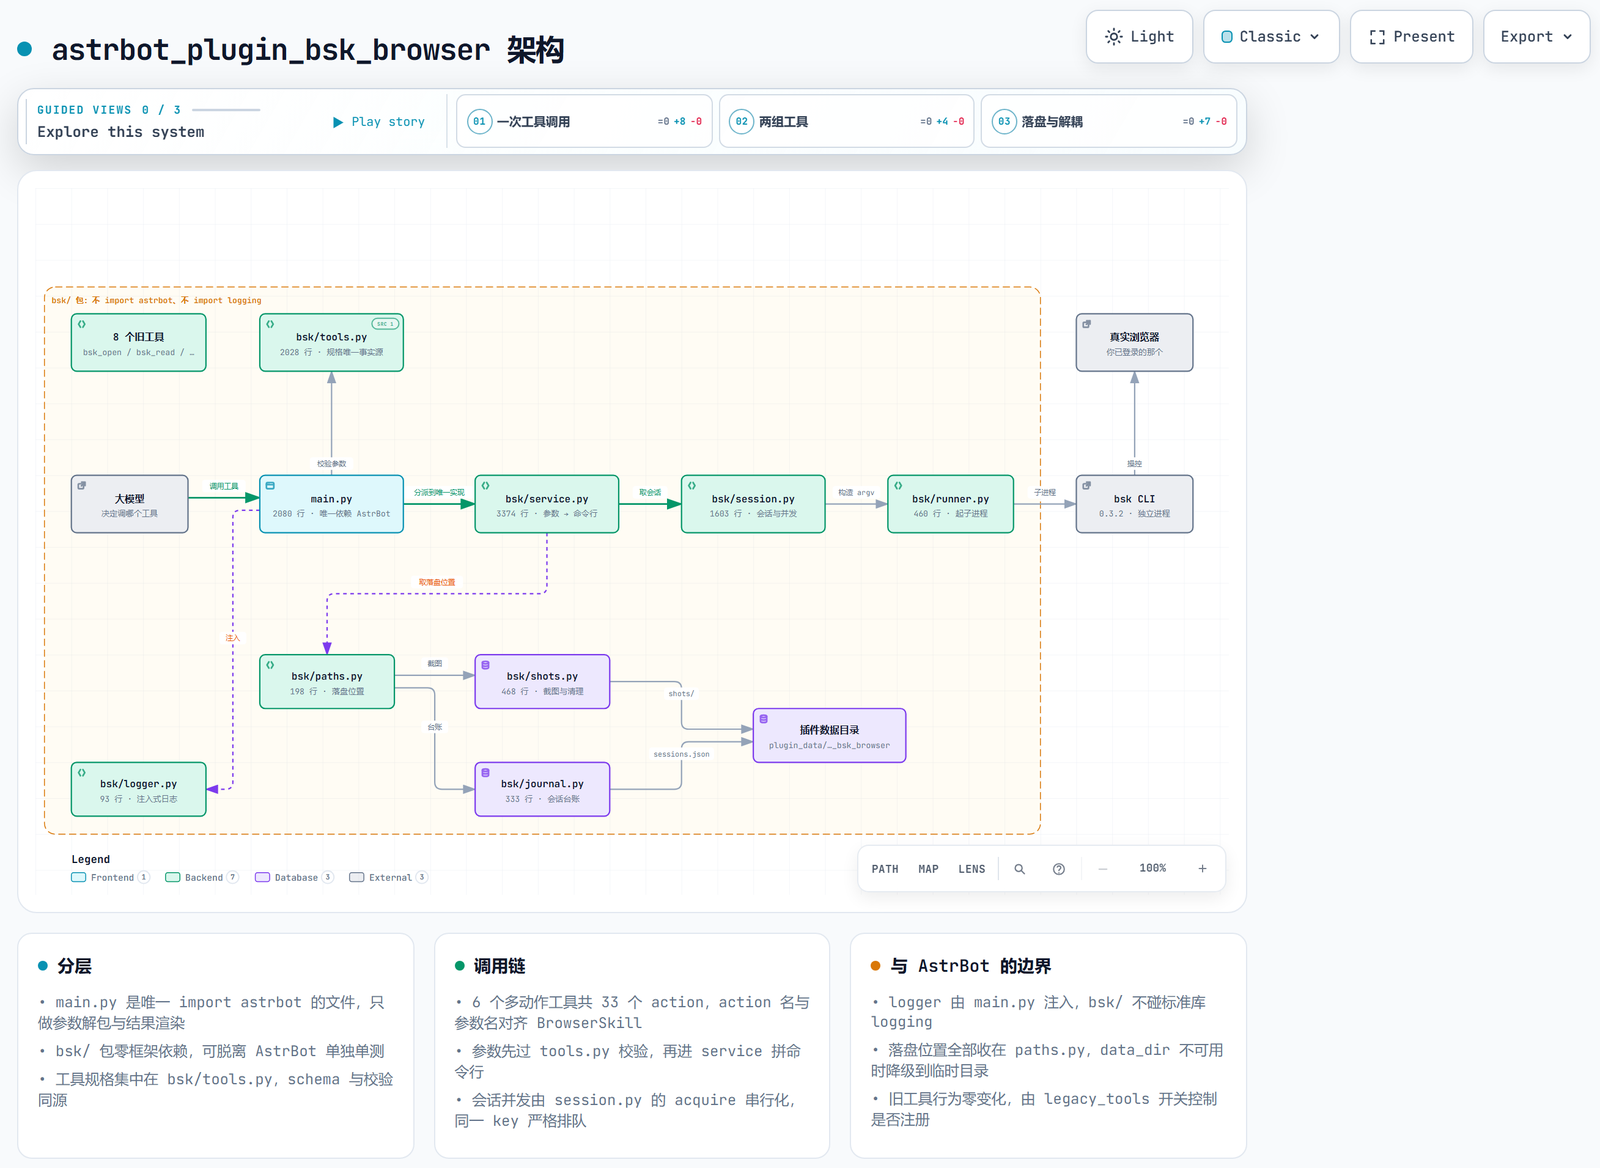
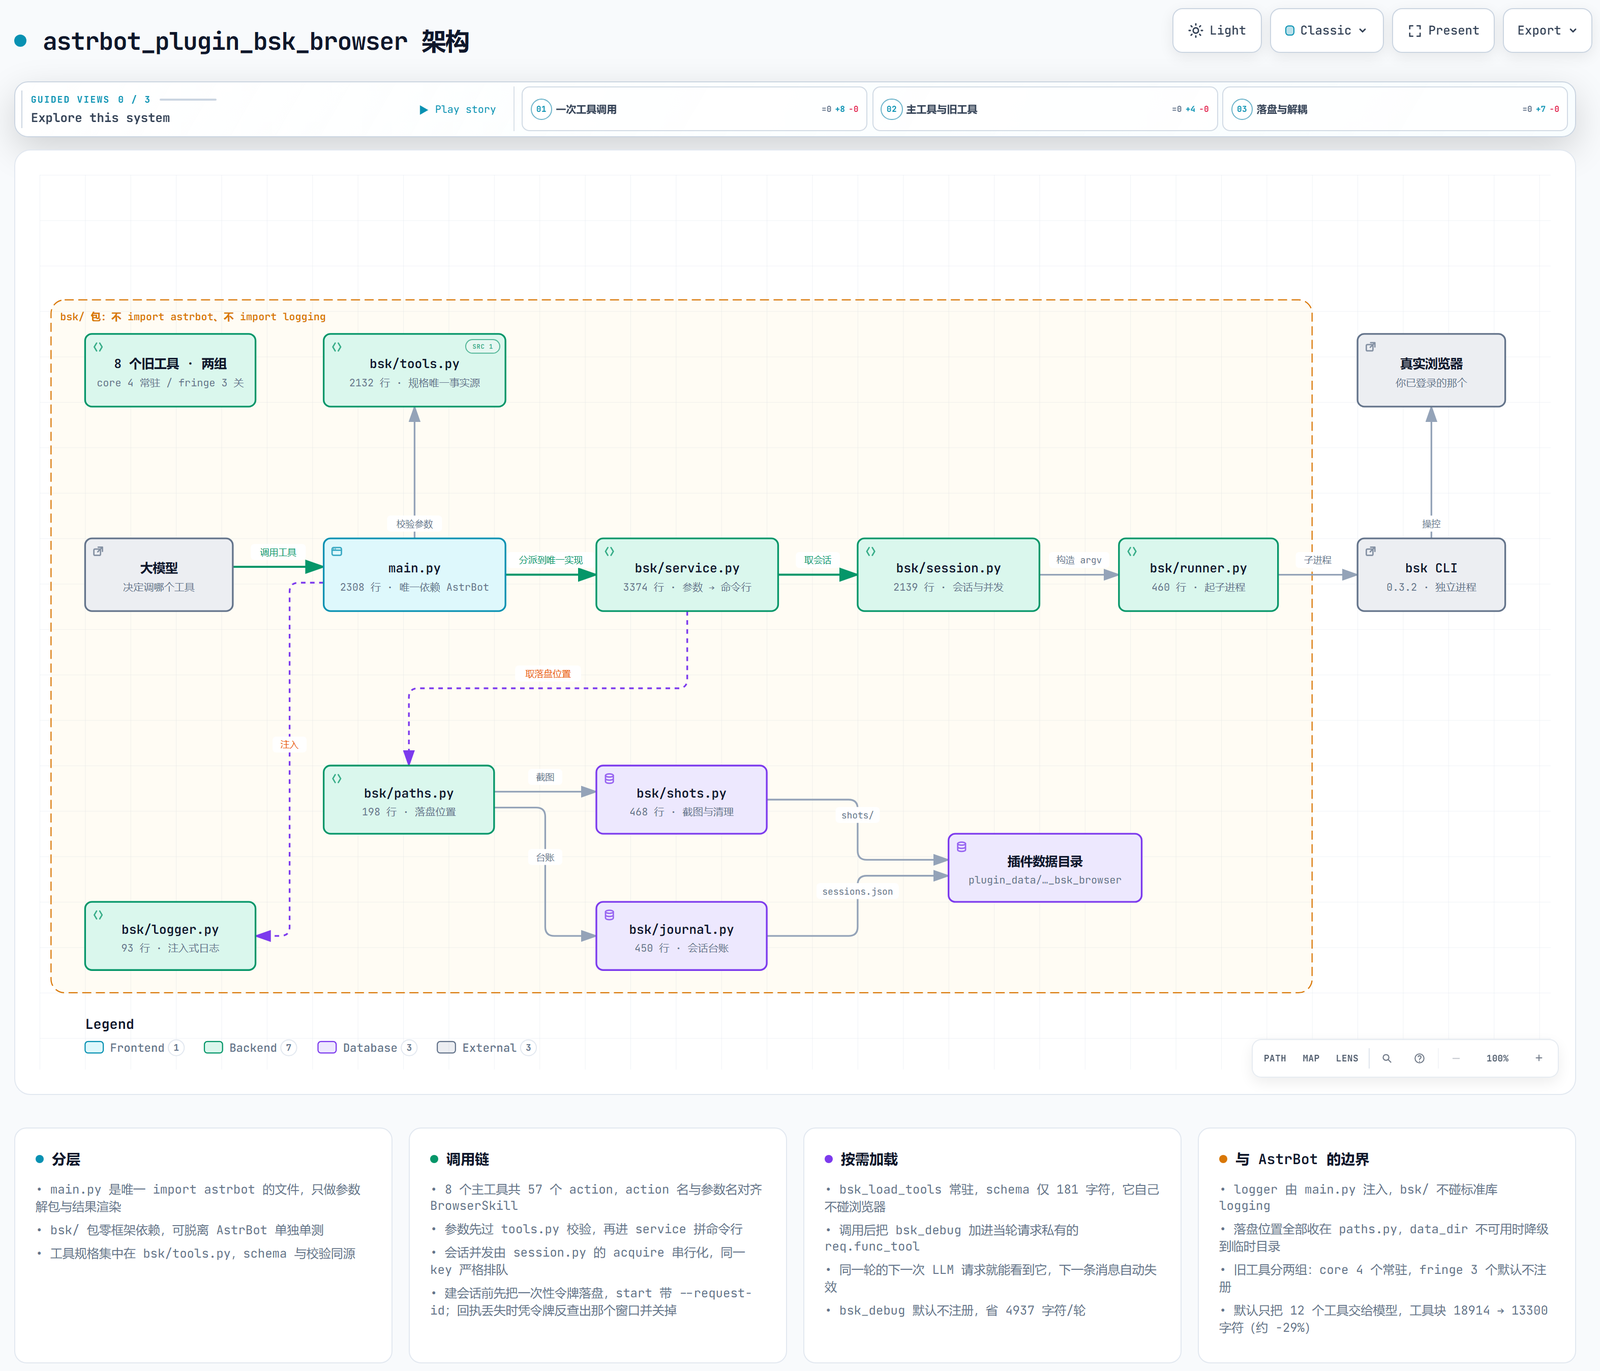
docs: 架构图同步到 8 工具形态 + 刷新真机报告与过期注释
## 架构图（docs/architecture.{json,html,png}）

图里四处文字已过期，全部更新：
- 组件 tools：6 工具/33 action → 8 工具/57 action；2028 行 → 2132 行
- 组件 legacy：改为「8 个旧工具 · 两组 / core 4 常驻 / fringe 3 关」
- 卡片「调用链」：补上可恢复启动（建会话前先落盘一次性令牌，start 带
  --request-id，回执丢失时凭令牌反查出窗口并关掉）
- 卡片「与 AstrBot 的边界」：改为旧工具分两组 + 默认 12 个工具 +
  工具块 18914 → 13300（-29%）

**新增一张卡片「按需加载」**（本轮的核心机制，原图完全没有）：
- bsk_load_tools 常驻，schema 仅 181 字符
- 调用后把 bsk_debug 加进当轮请求私有的 req.func_tool
- 同一轮的下一次 LLM 请求就能看到它，下一条消息自动失效
- bsk_debug 默认不注册，省 4937 字符/轮

其它：revision 更新为 9f7a973；main.py 2308 行 / session.py 2139 行；
三个引导视图的标签与说明同步。

archify 校验：**9/9 检查通过，0 error 0 warning**（showcase 档）。

## 其余

- `test-reports/实测报告-AstrBot真机.md` 重新生成（15/15，列出全部 16 个工具）
- `tests/verify_tools_e2e.py` 的 docstring 写清它覆盖的是哪 6 个旧工具，
  并把「L2 只证明 6 个工具注册成功」更正为 16 个（契约测试现从 main.py 自动推导）

测试：839 passed / 发布自检 37/37 / 体积 2.83 MB（阈值 4 MB）

diff --git a/docs/architecture.html b/docs/architecture.html
@@ -4840,8 +4840,8 @@
       </div>
     </div>
 
-    <script id="archify-guided-views-data" type="application/json">[{"id":"tool-call","label":"一次工具调用","focus":["llm","main","tools","service","session","runner","bskcli","browser"],"note":"从模型发起调用到真实浏览器执行：参数先过 tools.py 校验，再由 service 拼成 bsk 命令行。"},{"id":"two-groups","label":"两组工具","focus":["llm","main","tools","legacy"],"note":"6 个多动作工具共用一套 schema 与校验；8 个旧工具保留原样，由 legacy_tools 开关控制。"},{"id":"persistence","label":"落盘与解耦","focus":["main","service","paths","journal","shots","plugindata","logger"],"note":"bsk 包不依赖 AstrBot 也不碰日志模块，落盘位置全部收在 paths.py。"}]</script>
-    <script id="archify-source-evidence-data" type="application/json">{"schemaVersion":1,"verified":true,"repository":{"url":"https://github.com/JosephTian876/astrbot_plugin_bsk_browser","revision":"cddaedf790f33fe7247184ba0ee17894a522d47d","shortRevision":"cddaedf"},"referenceCount":1,"nodes":{"tools":[{"path":"bsk/tools.py","line":1,"label":"TOOL_SCHEMAS","href":"https://github.com/JosephTian876/astrbot_plugin_bsk_browser/blob/cddaedf790f33fe7247184ba0ee17894a522d47d/bsk/tools.py#L1"}]}}</script>
+    <script id="archify-guided-views-data" type="application/json">[{"id":"tool-call","label":"一次工具调用","focus":["llm","main","tools","service","session","runner","bskcli","browser"],"note":"从模型发起调用到真实浏览器执行：参数先过 tools.py 校验，再由 service 拼成 bsk 命令行。"},{"id":"two-groups","label":"主工具与旧工具","focus":["llm","main","tools","legacy"],"note":"8 个主工具共用一套 schema 与校验；旧工具分 core / fringe 两组，各由一项配置决定是否注册。"},{"id":"persistence","label":"落盘与解耦","focus":["main","service","paths","journal","shots","plugindata","logger"],"note":"bsk 包不依赖 AstrBot 也不碰日志模块，落盘位置全部收在 paths.py。"}]</script>
+    <script id="archify-source-evidence-data" type="application/json">{"schemaVersion":1,"verified":true,"repository":{"url":"https://github.com/JosephTian876/astrbot_plugin_bsk_browser","revision":"9f7a9739bc95da80d9b853ba33274bbbe5990da1","shortRevision":"9f7a973"},"referenceCount":1,"nodes":{"tools":[{"path":"bsk/tools.py","line":552,"label":"TOOL_SCHEMAS","href":"https://github.com/JosephTian876/astrbot_plugin_bsk_browser/blob/9f7a9739bc95da80d9b853ba33274bbbe5990da1/bsk/tools.py#L552"}]}}</script>
     <div class="guided-views no-print" id="guided-views" hidden aria-label="Guided diagram views">
       <button id="guided-view-prev" type="button" aria-label="Previous guided view" title="Previous guided view ([)">&#8592;</button>
       <div class="guided-view-copy">
@@ -4940,8 +4940,8 @@
         <text data-detail="context" x="105" y="366" class="t-muted" font-size="9" text-anchor="middle">决定调哪个工具</text>
         </g>
 
-        <g id="node-main" data-node-id="main" data-node-label="main.py" tabindex="0" role="button" aria-label="Focus main.py, 2080 行 · 唯一依赖 AstrBot, Architecture component" aria-pressed="false" data-node-kind="frontend" data-node-sublabel="2080 行 · 唯一依赖 AstrBot" data-node-tag="14 个 handler" data-node-context="Architecture component">
-          <title>main.py · 2080 行 · 唯一依赖 AstrBot · Architecture component · 14 个 handler</title>
+        <g id="node-main" data-node-id="main" data-node-label="main.py" tabindex="0" role="button" aria-label="Focus main.py, 2308 行 · 唯一依赖 AstrBot, Architecture component" aria-pressed="false" data-node-kind="frontend" data-node-sublabel="2308 行 · 唯一依赖 AstrBot" data-node-tag="16 个 handler" data-node-context="Architecture component">
+          <title>main.py · 2308 行 · 唯一依赖 AstrBot · Architecture component · 16 个 handler</title>
           <rect x="250" y="320" width="160" height="64" rx="6" class="c-mask"/>
           <rect x="250" y="320" width="160" height="64" rx="6" class="c-frontend" stroke-width="1.5"/>
           <g aria-hidden="true" data-semantic-sigil="frontend" class="semantic-sigil s-frontend" transform="translate(256 326) scale(0.6875)">
@@ -4951,32 +4951,32 @@
             <circle cx="6.3" cy="4.8" r=".7" class="sigil-fill"/>
           </g>
           <text data-detail-anchor x="330" y="350" class="t-primary" font-size="11" font-weight="600" text-anchor="middle">main.py</text>
-        <text data-detail="context" x="330" y="366" class="t-muted" font-size="9" text-anchor="middle">2080 行 · 唯一依赖 AstrBot</text>
-        <text data-detail="fine" x="330" y="376" class="t-frontend" font-size="7" text-anchor="middle">14 个 handler</text>
+        <text data-detail="context" x="330" y="366" class="t-muted" font-size="9" text-anchor="middle">2308 行 · 唯一依赖 AstrBot</text>
+        <text data-detail="fine" x="330" y="376" class="t-frontend" font-size="7" text-anchor="middle">16 个 handler</text>
         </g>
 
-        <g id="node-legacy" data-node-id="legacy" data-node-label="8 个旧工具" tabindex="0" role="button" aria-label="Focus 8 个旧工具, bsk_open / bsk_read / …, Architecture component" aria-pressed="false" data-node-kind="backend" data-node-sublabel="bsk_open / bsk_read / …" data-node-tag="legacy_tools 开关" data-node-context="Architecture component">
-          <title>8 个旧工具 · bsk_open / bsk_read / … · Architecture component · legacy_tools 开关</title>
+        <g id="node-legacy" data-node-id="legacy" data-node-label="8 个旧工具 · 两组" tabindex="0" role="button" aria-label="Focus 8 个旧工具 · 两组, core 4 常驻 / fringe 3 关, Architecture component" aria-pressed="false" data-node-kind="backend" data-node-sublabel="core 4 常驻 / fringe 3 关" data-node-tag="legacy_tools 两级" data-node-context="Architecture component">
+          <title>8 个旧工具 · 两组 · core 4 常驻 / fringe 3 关 · Architecture component · legacy_tools 两级</title>
           <rect x="40" y="140" width="150" height="64" rx="6" class="c-mask"/>
           <rect x="40" y="140" width="150" height="64" rx="6" class="c-backend" stroke-width="1.5"/>
           <g aria-hidden="true" data-semantic-sigil="backend" class="semantic-sigil s-backend" transform="translate(46 146) scale(0.6875)">
             <path d="M6 3 3 8l3 5M10 3l3 5-3 5"/>
           </g>
-          <text data-detail-anchor x="115" y="170" class="t-primary" font-size="11" font-weight="600" text-anchor="middle">8 个旧工具</text>
-        <text data-detail="context" x="115" y="186" class="t-muted" font-size="9" text-anchor="middle">bsk_open / bsk_read / …</text>
-        <text data-detail="fine" x="115" y="196" class="t-backend" font-size="7" text-anchor="middle">legacy_tools 开关</text>
+          <text data-detail-anchor x="115" y="170" class="t-primary" font-size="11" font-weight="600" text-anchor="middle">8 个旧工具 · 两组</text>
+        <text data-detail="context" x="115" y="186" class="t-muted" font-size="9" text-anchor="middle">core 4 常驻 / fringe 3 关</text>
+        <text data-detail="fine" x="115" y="196" class="t-backend" font-size="7" text-anchor="middle">legacy_tools 两级</text>
         </g>
 
-        <g id="node-tools" data-node-id="tools" data-node-label="bsk/tools.py" tabindex="0" role="button" aria-label="Focus bsk/tools.py, 2028 行 · 规格唯一事实源, bsk/ 包：不 import astrbot、不 import logging" aria-pressed="false" data-node-kind="backend" data-node-sublabel="2028 行 · 规格唯一事实源" data-node-tag="6 工具 / 33 action" data-node-context="bsk/ 包：不 import astrbot、不 import logging">
-          <title>bsk/tools.py · 2028 行 · 规格唯一事实源 · bsk/ 包：不 import astrbot、不 import logging · 6 工具 / 33 action</title>
+        <g id="node-tools" data-node-id="tools" data-node-label="bsk/tools.py" tabindex="0" role="button" aria-label="Focus bsk/tools.py, 2132 行 · 规格唯一事实源, bsk/ 包：不 import astrbot、不 import logging" aria-pressed="false" data-node-kind="backend" data-node-sublabel="2132 行 · 规格唯一事实源" data-node-tag="8 工具 / 57 action" data-node-context="bsk/ 包：不 import astrbot、不 import logging">
+          <title>bsk/tools.py · 2132 行 · 规格唯一事实源 · bsk/ 包：不 import astrbot、不 import logging · 8 工具 / 57 action</title>
           <rect x="250" y="140" width="160" height="64" rx="6" class="c-mask"/>
           <rect x="250" y="140" width="160" height="64" rx="6" class="c-backend" stroke-width="1.5"/>
           <g aria-hidden="true" data-semantic-sigil="backend" class="semantic-sigil s-backend" transform="translate(256 146) scale(0.6875)">
             <path d="M6 3 3 8l3 5M10 3l3 5-3 5"/>
           </g>
           <text data-detail-anchor x="330" y="170" class="t-primary" font-size="11" font-weight="600" text-anchor="middle">bsk/tools.py</text>
-        <text data-detail="context" x="330" y="186" class="t-muted" font-size="9" text-anchor="middle">2028 行 · 规格唯一事实源</text>
-        <text data-detail="fine" x="330" y="196" class="t-backend" font-size="7" text-anchor="middle">6 工具 / 33 action</text>
+        <text data-detail="context" x="330" y="186" class="t-muted" font-size="9" text-anchor="middle">2132 行 · 规格唯一事实源</text>
+        <text data-detail="fine" x="330" y="196" class="t-backend" font-size="7" text-anchor="middle">8 工具 / 57 action</text>
         </g>
 
         <g id="node-service" data-node-id="service" data-node-label="bsk/service.py" tabindex="0" role="button" aria-label="Focus bsk/service.py, 3374 行 · 参数 → 命令行, bsk/ 包：不 import astrbot、不 import logging" aria-pressed="false" data-node-kind="backend" data-node-sublabel="3374 行 · 参数 → 命令行" data-node-tag="唯一实现" data-node-context="bsk/ 包：不 import astrbot、不 import logging">
@@ -4991,15 +4991,15 @@
         <text data-detail="fine" x="570" y="376" class="t-backend" font-size="7" text-anchor="middle">唯一实现</text>
         </g>
 
-        <g id="node-session" data-node-id="session" data-node-label="bsk/session.py" tabindex="0" role="button" aria-label="Focus bsk/session.py, 1603 行 · 会话与并发, bsk/ 包：不 import astrbot、不 import logging" aria-pressed="false" data-node-kind="backend" data-node-sublabel="1603 行 · 会话与并发" data-node-tag="acquire(start_args=)" data-node-context="bsk/ 包：不 import astrbot、不 import logging">
-          <title>bsk/session.py · 1603 行 · 会话与并发 · bsk/ 包：不 import astrbot、不 import logging · acquire(start_args=)</title>
+        <g id="node-session" data-node-id="session" data-node-label="bsk/session.py" tabindex="0" role="button" aria-label="Focus bsk/session.py, 2139 行 · 会话与并发, bsk/ 包：不 import astrbot、不 import logging" aria-pressed="false" data-node-kind="backend" data-node-sublabel="2139 行 · 会话与并发" data-node-tag="acquire(start_args=)" data-node-context="bsk/ 包：不 import astrbot、不 import logging">
+          <title>bsk/session.py · 2139 行 · 会话与并发 · bsk/ 包：不 import astrbot、不 import logging · acquire(start_args=)</title>
           <rect x="720" y="320" width="160" height="64" rx="6" class="c-mask"/>
           <rect x="720" y="320" width="160" height="64" rx="6" class="c-backend" stroke-width="1.5"/>
           <g aria-hidden="true" data-semantic-sigil="backend" class="semantic-sigil s-backend" transform="translate(726 326) scale(0.6875)">
             <path d="M6 3 3 8l3 5M10 3l3 5-3 5"/>
           </g>
           <text data-detail-anchor x="800" y="350" class="t-primary" font-size="11" font-weight="600" text-anchor="middle">bsk/session.py</text>
-        <text data-detail="context" x="800" y="366" class="t-muted" font-size="9" text-anchor="middle">1603 行 · 会话与并发</text>
+        <text data-detail="context" x="800" y="366" class="t-muted" font-size="9" text-anchor="middle">2139 行 · 会话与并发</text>
         <text data-detail="fine" x="800" y="376" class="t-backend" font-size="7" text-anchor="middle">acquire(start_args=)</text>
         </g>
 
@@ -5062,8 +5062,8 @@
         <text data-detail="context" x="325" y="564" class="t-muted" font-size="9" text-anchor="middle">198 行 · 落盘位置</text>
         </g>
 
-        <g id="node-journal" data-node-id="journal" data-node-label="bsk/journal.py" tabindex="0" role="button" aria-label="Focus bsk/journal.py, 333 行 · 会话台账, bsk/ 包：不 import astrbot、不 import logging" aria-pressed="false" data-node-kind="database" data-node-sublabel="333 行 · 会话台账" data-node-context="bsk/ 包：不 import astrbot、不 import logging">
-          <title>bsk/journal.py · 333 行 · 会话台账 · bsk/ 包：不 import astrbot、不 import logging</title>
+        <g id="node-journal" data-node-id="journal" data-node-label="bsk/journal.py" tabindex="0" role="button" aria-label="Focus bsk/journal.py, 450 行 · 会话台账, bsk/ 包：不 import astrbot、不 import logging" aria-pressed="false" data-node-kind="database" data-node-sublabel="450 行 · 会话台账" data-node-context="bsk/ 包：不 import astrbot、不 import logging">
+          <title>bsk/journal.py · 450 行 · 会话台账 · bsk/ 包：不 import astrbot、不 import logging</title>
           <rect x="490" y="640" width="150" height="60" rx="6" class="c-mask"/>
           <rect x="490" y="640" width="150" height="60" rx="6" class="c-database" stroke-width="1.5"/>
           <g aria-hidden="true" data-semantic-sigil="database" class="semantic-sigil s-database" transform="translate(496 646) scale(0.6875)">
@@ -5071,7 +5071,7 @@
             <path d="M3 4v8c0 1.1 2.2 2 5 2s5-.9 5-2V4M3 8c0 1.1 2.2 2 5 2s5-.9 5-2"/>
           </g>
           <text data-detail-anchor x="565" y="668" class="t-primary" font-size="11" font-weight="600" text-anchor="middle">bsk/journal.py</text>
-        <text data-detail="context" x="565" y="684" class="t-muted" font-size="9" text-anchor="middle">333 行 · 会话台账</text>
+        <text data-detail="context" x="565" y="684" class="t-muted" font-size="9" text-anchor="middle">450 行 · 会话台账</text>
         </g>
 
         <g id="node-shots" data-node-id="shots" data-node-label="bsk/shots.py" tabindex="0" role="button" aria-label="Focus bsk/shots.py, 468 行 · 截图与清理, bsk/ 包：不 import astrbot、不 import logging" aria-pressed="false" data-node-kind="database" data-node-sublabel="468 行 · 截图与清理" data-node-context="bsk/ 包：不 import astrbot、不 import logging">
@@ -5357,25 +5357,28 @@
     <div class="cards">
       <div class="card">
         <div class="card-header">
-          <div class="card-dot cyan"></div>
-          <h3>分层</h3>
+          <div class="card-dot emerald"></div>
+          <h3>调用链</h3>
         </div>
         <ul>
-          <li>&bull; main.py 是唯一 import astrbot 的文件，只做参数解包与结果渲染</li>
-          <li>&bull; bsk/ 包零框架依赖，可脱离 AstrBot 单独单测</li>
-          <li>&bull; 工具规格集中在 bsk/tools.py，schema 与校验同源</li>
+          <li>&bull; 8 个主工具共 57 个 action</li>
+          <li>&bull; action 名与参数名对齐 BrowserSkill</li>
+          <li>&bull; 参数先过 tools.py 校验，再进 service</li>
+          <li>&bull; 会话并发由 acquire 串行化，同一 key 排队</li>
+          <li>&bull; 建会话前落盘令牌，start 带 --request-id</li>
         </ul>
       </div>
 
       <div class="card">
         <div class="card-header">
-          <div class="card-dot emerald"></div>
-          <h3>调用链</h3>
+          <div class="card-dot violet"></div>
+          <h3>按需加载</h3>
         </div>
         <ul>
-          <li>&bull; 6 个多动作工具共 33 个 action，action 名与参数名对齐 BrowserSkill</li>
-          <li>&bull; 参数先过 tools.py 校验，再进 service 拼命令行</li>
-          <li>&bull; 会话并发由 session.py 的 acquire 串行化，同一 key 严格排队</li>
+          <li>&bull; bsk_load_tools 常驻（schema 仅 181 字符）</li>
+          <li>&bull; 调用后把 bsk_debug 加进当轮 req.func_tool</li>
+          <li>&bull; 同一轮下一步即可见，下一条消息自动失效</li>
+          <li>&bull; bsk_debug 默认不注册，省 4937 字符/轮</li>
         </ul>
       </div>
 
@@ -5385,9 +5388,11 @@
           <h3>与 AstrBot 的边界</h3>
         </div>
         <ul>
-          <li>&bull; logger 由 main.py 注入，bsk/ 不碰标准库 logging</li>
-          <li>&bull; 落盘位置全部收在 paths.py，data_dir 不可用时降级到临时目录</li>
-          <li>&bull; 旧工具行为零变化，由 legacy_tools 开关控制是否注册</li>
+          <li>&bull; main.py 是唯一 import astrbot 的文件</li>
+          <li>&bull; logger 由 main.py 注入，bsk/ 不碰它</li>
+          <li>&bull; 落盘位置收在 paths.py，data_dir 不可用则降级</li>
+          <li>&bull; 旧工具分两组：core 4 常驻，fringe 3 默认关</li>
+          <li>&bull; 默认 12 个工具进列表，工具块约 -29%</li>
         </ul>
       </div>
     </div>

diff --git a/tests/verify_tools_e2e.py b/tests/verify_tools_e2e.py
@@ -1,4 +1,6 @@
-"""L4 工具层端到端测试：直接 await 插件注册给 LLM 的 6 个工具函数。
+"""L4 工具层端到端测试：直接 await 本脚本覆盖的那 6 个旧工具函数 ——
+core 组的 ``bsk_screenshot`` / ``bsk_close`` / ``bsk_status``，
+fringe 组的 ``bsk_open`` / ``bsk_read`` / ``bsk_act``。
 
 ## 这一层补的是什么缺口
 
@@ -7,7 +9,8 @@
 行为、``bsk_act`` 的动作名归一化。既有的三层测试都不覆盖它：
 
 - L1（``tests/test_*.py``）只测 ``bsk/`` 纯逻辑，用假 runner；
-- L2（``tests/verify_astrbot_contract.py``）只证明 6 个工具注册成功、
+- L2（``tests/verify_astrbot_contract.py``）只证明 16 个工具全部注册成功
+  （清单从 ``main.py`` 的 ``@filter.llm_tool`` 自动推导）、
   docstring schema 正确、生命周期方法可调用，没有调用过工具函数本身；
 - L3（``tests/verify_integration.py``）测的是 ``BskService`` 服务层，
   不经过 main.py 的工具函数。
